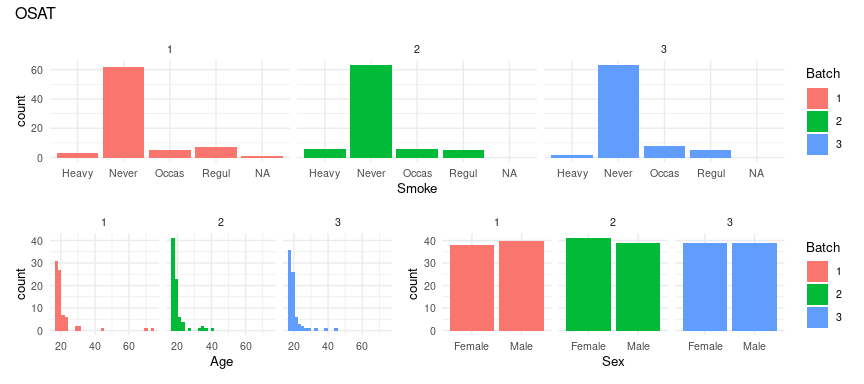
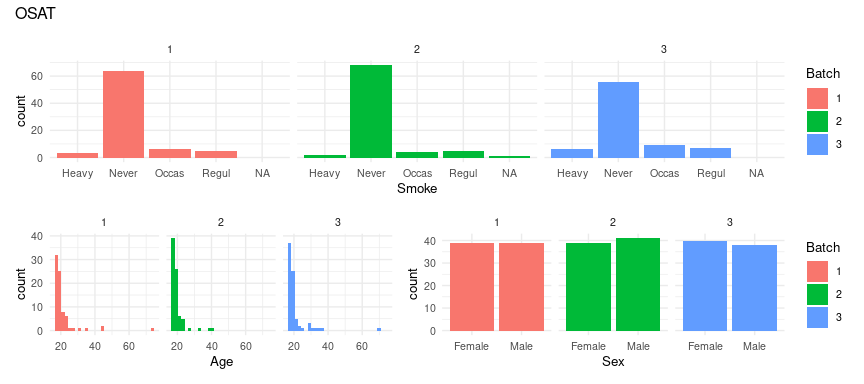
Remove long lines moves tatement of need below code examples

diff --git a/paper.md b/paper.md
@@ -89,13 +89,6 @@ Here we briefly describe the currently available packages:
 -   Recently, [*Omixer*](https://bioconductor.org/packages/Omixer/), a new package, has been made available at Bioconductor [@sinke2021].
     It tests whether the random assignments made by it are homogeneous by transforming all variables to numeric values and using the Kendall's correlation when there are more than 5 samples; otherwise, it utilizes the Pearson's chi-squared test.
 
-# Statement of need
-
-Current solutions for stratifying samples to reduce and control batch effect do not work for all cases.
-They are either specialized to a particular type of data, they omit some conditions that are usually met, or they only work under a specific subset of conditions.
-The new package ***experDesign*** works with all data types and does not require a spatial distribution making it suitable for all kind of experiments.
-This package is intended for people needing a quick and easy solution that will provide reasonable suggestions on how to best distribute the samples for analysis.
-
 For completeness a description and comparison of the usage of the different software packages currently available on CRAN and Bioconductor is presented below.
 First, we start with some real data obtained from a survey:
 
@@ -124,8 +117,10 @@ theme_set(theme_plots)
 library("OSAT")
 library("patchwork")
 gs <- setup.sample(survey, optimal = VoI)
-gc <- setup.container(plate = IlluminaBeadChip96Plate, n = n_batch, batch = 'plates')
-gSetup <- create.optimized.setup(sample = gs, container = gc, nSim = iterations)
+gc <- setup.container(plate = IlluminaBeadChip96Plate, 
+                      n = n_batch, batch = 'plates')
+gSetup <- create.optimized.setup(sample = gs, container = gc, 
+                                 nSim = iterations)
 ## Warning in create.optimized.setup(sample = gs, container = gc, nSim =
 ## iterations): Using default optimization method: optimal.shuffle
 osat_report <- get.experiment.setup(gSetup)
@@ -175,7 +170,8 @@ anticlust_index <- anticlustering(
   method = "exchange",
   repetitions = iterations
 )
-report_anticlust <- data.frame(Age = survey[, "Age"], batch = as.character(anticlust_index))
+report_anticlust <- data.frame(Age = survey[, "Age"], 
+                               batch = as.character(anticlust_index))
 library("ggplot2")
 ggplot(report_anticlust) + 
   geom_histogram(aes(Age, fill = batch)) +
@@ -200,28 +196,40 @@ Omixer_index <- omixerRand(survey, sampleId = "ID",
                            plateNum = n_batch, randVars = VoI, techVars = NULL)
 ## Error in omixerRand(survey, sampleId = "ID", block = "block", iterNum = 10, : Number of unmasked wells must equal number of samples.
 Omixer_index <- omixerRand(survey, sampleId = "ID", 
-                           block = "block", iterNum = 10, wells = size_subset, mask = rep(1, nrow(survey)),
+                           block = "block", iterNum = 10, wells = size_subset, 
+                           mask = rep(1, nrow(survey)),
                            plateNum = n_batch, randVars = VoI, techVars = NULL)
 ## Error: Tibble columns must have compatible sizes.
 ## * Size 288: Existing data.
 ## * Size 237: Column `mask`.
 ## ℹ Only values of size one are recycled.
 Omixer_index <- omixerRand(survey, sampleId = "ID", 
-                           block = "block", iterNum = 10, wells = size_subset, mask = rep(0, nrow(survey)),
+                           block = "block", iterNum = 10, wells = size_subset, 
+                           mask = rep(0, nrow(survey)),
                            plateNum = n_batch, randVars = VoI, techVars = NULL)
 ## Error: Tibble columns must have compatible sizes.
 ## * Size 288: Existing data.
 ## * Size 237: Column `mask`.
 ## ℹ Only values of size one are recycled.
 Omixer_index <- omixerRand(survey, sampleId = "ID", 
-                           block = "block", iterNum = 10, wells = size_subset, mask = rep(1, 288),
+                           block = "block", iterNum = 10, wells = size_subset, 
+                           mask = rep(1, 288),
                            plateNum = n_batch, randVars = VoI, techVars = NULL)
 ## Error in omixerRand(survey, sampleId = "ID", block = "block", iterNum = 10, : Number of unmasked wells must equal number of samples.
 Omixer_index <- omixerRand(survey, sampleId = "ID", 
-                           block = "block", iterNum = 10, wells = size_subset, mask = rep(0, 288),
+                           block = "block", iterNum = 10, wells = size_subset, 
+                           mask = rep(0, 288),
                            plateNum = n_batch, randVars = VoI, techVars = NULL)
 ## Error in omixerRand(survey, sampleId = "ID", block = "block", iterNum = 10, : Number of unmasked wells must equal number of samples.
 ```
+
+
+# Statement of need
+
+Current solutions for stratifying samples to reduce and control batch effect do not work for all cases.
+They are either specialized to a particular type of data, they omit some conditions that are usually met, or they only work under a specific subset of conditions.
+The new package ***experDesign*** works with all data types and does not require a spatial distribution making it suitable for all kind of experiments.
+This package is intended for people needing a quick and easy solution that will provide reasonable suggestions on how to best distribute the samples for analysis.
 
 # Description
 
@@ -243,8 +251,11 @@ See the example below:
 library("experDesign")
 experDesign_index <- design(survey[, VoI], size_subset = size_subset,
                   iterations = iterations, name = "")
-experDesign_index_spatial <- spatial(index = experDesign_index, pheno = survey[, VoI], 
-                                     iterations = iterations, rows = LETTERS[1:8], columns = 1:12)
+experDesign_index_spatial <- spatial(index = experDesign_index, 
+                                     pheno = survey[, VoI], 
+                                     iterations = iterations, 
+                                     rows = LETTERS[1:8], 
+                                     columns = 1:12)
 experDesign_report <- inspect(experDesign_index, survey[, VoI])
 nrow(experDesign_report)
 ## [1] 237
@@ -260,7 +271,9 @@ experDesign_smoke <- ggplot(experDesign_report) +
   geom_bar(aes(Smoke, fill = batch)) +
   facet_wrap(~batch) +
   labs(fill = "Batch")
-(experDesign_smoke/(experDesign_age + experDesign_sex + plot_layout(guides = 'collect'))) + plot_annotation(title = "experDesign")
+(experDesign_smoke/(experDesign_age + 
+                      experDesign_sex + plot_layout(guides = 'collect'))) +
+  plot_annotation(title = "experDesign")
 ## `stat_bin()` using `bins = 30`. Pick better value with `binwidth`.
 ```
 
@@ -274,17 +287,17 @@ evaluate_na(experDesign_index, survey[, VoI])
 ##       Sex     Smoke       Age 
 ## 0.4444444 0.4444444 0.0000000
 evaluate_entropy(experDesign_index, survey[, VoI])
-##        Sex      Smoke 
-## 0.00589071 0.49227878
+##         Sex       Smoke 
+## 0.000693659 0.488735971
 evaluate_mad(experDesign_index, survey[, VoI])
 ##      Age 
 ## 25.94501
 evaluate_sd(experDesign_index, survey[, VoI])
 ##      Age 
-## 0.983568
+## 0.523386
 evaluate_mean(experDesign_index, survey[, VoI])
-##        Age 
-## 0.08579466
+##       Age 
+## 0.1315049
 # All together for each batch
 ei <- evaluate_index(experDesign_index, survey[, VoI])
 ei[, , "SubSet1"]
@@ -294,24 +307,24 @@ evaluate_na(experDesign_index_spatial, survey[, VoI])
 ## 0.02061632 0.02061632 0.00000000
 evaluate_entropy(experDesign_index_spatial, survey[, VoI])
 ##       Sex     Smoke 
-## 0.4143536 1.0000000
+## 0.4205148 1.0000000
 evaluate_mad(experDesign_index_spatial, survey[, VoI])
 ##      Age 
-## 25.75065
+## 25.74615
 evaluate_sd(experDesign_index_spatial, survey[, VoI])
 ##      Age 
-## 5.071823
+## 5.174576
 evaluate_mean(experDesign_index_spatial, survey[, VoI])
-##    Age 
-## 2.2549
+##      Age 
+## 2.262361
 # All together for each batch
 ei <- evaluate_index(experDesign_index_spatial, survey[, VoI])
 ei[, , "G1"]
 ##          variables
 ## stat            Sex     Smoke       Age
-##   mean    0.0000000 0.0000000 21.305667
-##   sd      0.0000000 0.0000000  3.700851
-##   mad     0.0000000 0.0000000  2.100844
+##   mean    0.0000000 0.0000000 19.194667
+##   sd      0.0000000 0.0000000  1.926148
+##   mad     0.0000000 0.0000000  2.346956
 ##   na      0.0000000 0.0000000  0.000000
 ##   entropy 0.9182958 0.9182958  0.000000
 ```
@@ -337,11 +350,12 @@ The rest of the workflow is similar to the above example:
 
 ```r
 extreme_cases(survey[, VoI], size = 5)
-## [1]  16  66  99 171 195
+## [1]  31  43 124 158 222
 replicates_index <- replicates(pheno = survey[, VoI], 
                                size_subset = size_subset, controls = 5, 
                                iterations = iterations)
-spatial_replicate_index <- spatial(index = replicates_index, pheno = survey[, VoI], 
+spatial_replicate_index <- spatial(index = replicates_index, 
+                                   pheno = survey[, VoI], 
                                    rows = LETTERS[1:8], columns = 1:12)
 survey$ID <- seq_len(nrow(survey))
 report_replicates <- inspect(i = replicates_index, 
@@ -352,21 +366,21 @@ report_replicates_position <- inspect(i = spatial_replicate_index,
 # Batch and position where the samples should be:
 head(report_replicates_position)
 ##      Sex Smoke    Age ID   batch position
-## 1 Female Never 18.250  1 SubSet3       F8
-## 2   Male Regul 17.583  2 SubSet3       F4
-## 3   Male Occas 16.917  3 SubSet3       G8
-## 4   Male Never 20.333  4 SubSet2       A4
-## 5   Male Never 23.667  5 SubSet3       E4
-## 6 Female Never 21.000  6 SubSet2       G1
+## 1 Female Never 18.250  1 SubSet2      H11
+## 2   Male Regul 17.583  2 SubSet1       G7
+## 3   Male Occas 16.917  3 SubSet2       H3
+## 4   Male Never 20.333  4 SubSet2       F6
+## 5   Male Never 23.667  5 SubSet3      B12
+## 6 Female Never 21.000  6 SubSet2       E9
 # Technical replicates:
 head(report_replicates_position[duplicated(report_replicates_position$ID), ])
-##         Sex Smoke    Age ID   batch position
-## 7.3    Male Never 18.833  7 SubSet1       C7
-## 7.4    Male Never 18.833  7 SubSet1      G11
-## 7.1    Male Never 18.833  7 SubSet2       E3
-## 7.2    Male Never 18.833  7 SubSet3       A4
-## 75.1 Female Never 17.750 75 SubSet3       B9
-## 75.2 Female Never 17.750 75 SubSet3      E11
+##         Sex Smoke   Age ID   batch position
+## 24.3   Male Never 18.25 24 SubSet1       H6
+## 24.4   Male Never 18.25 24 SubSet1       F9
+## 24.1   Male Never 18.25 24 SubSet2       D5
+## 24.2   Male Never 18.25 24 SubSet3       E8
+## 75.1 Female Never 17.75 75 SubSet2      G10
+## 75.2 Female Never 17.75 75 SubSet2      D12
 ```
 
 ***experDesign*** also provides several small utilities to make it easier to design the experiment in batches.
